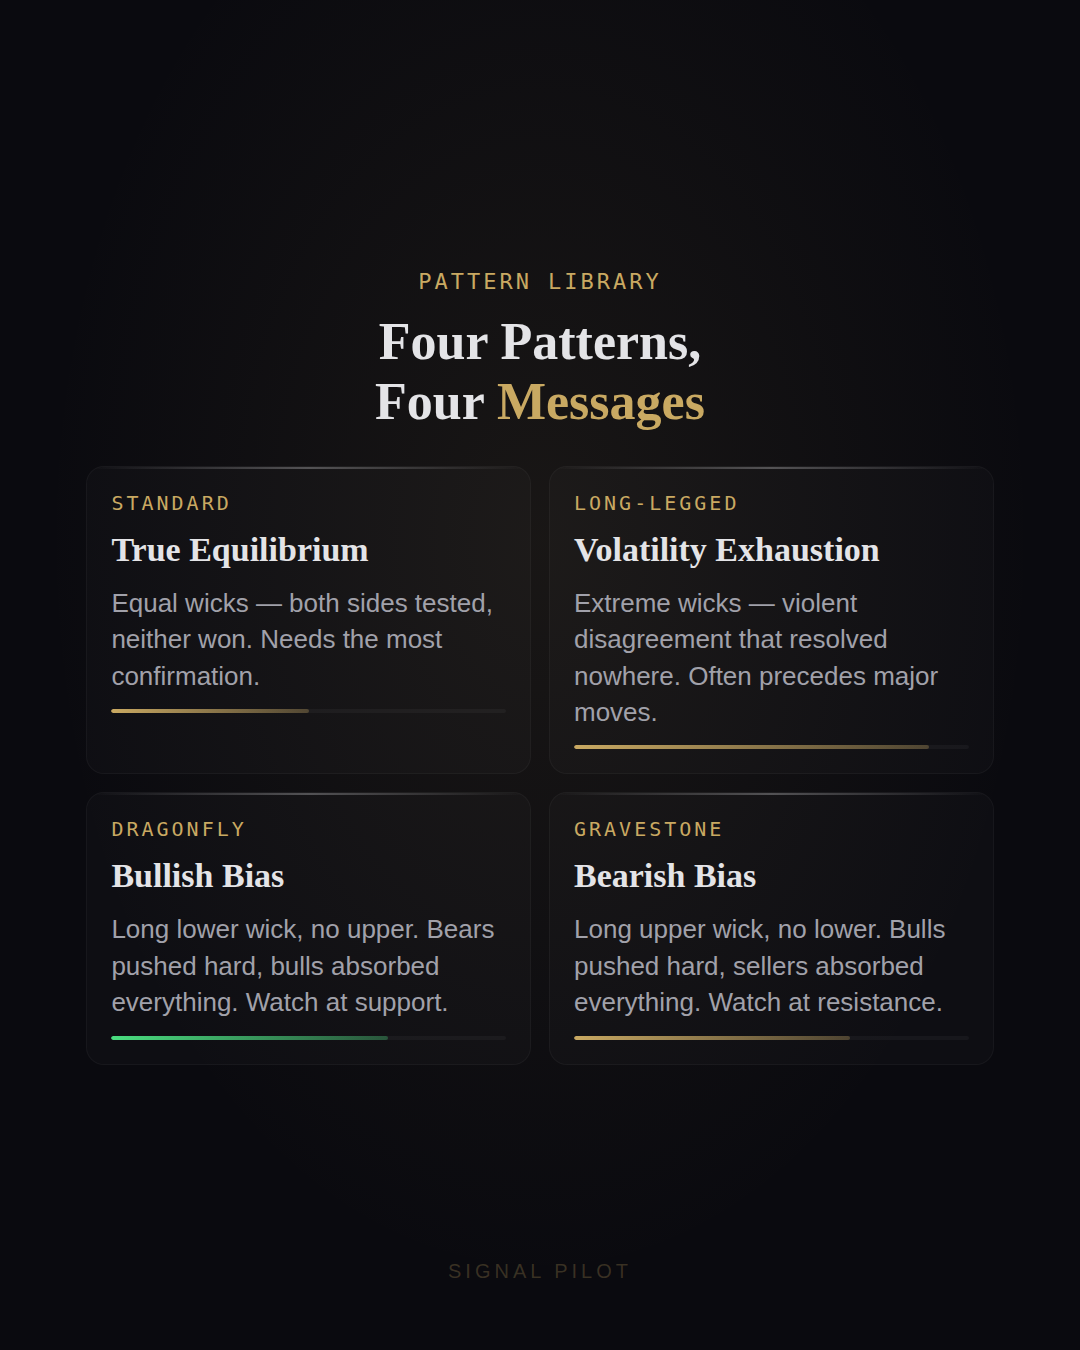
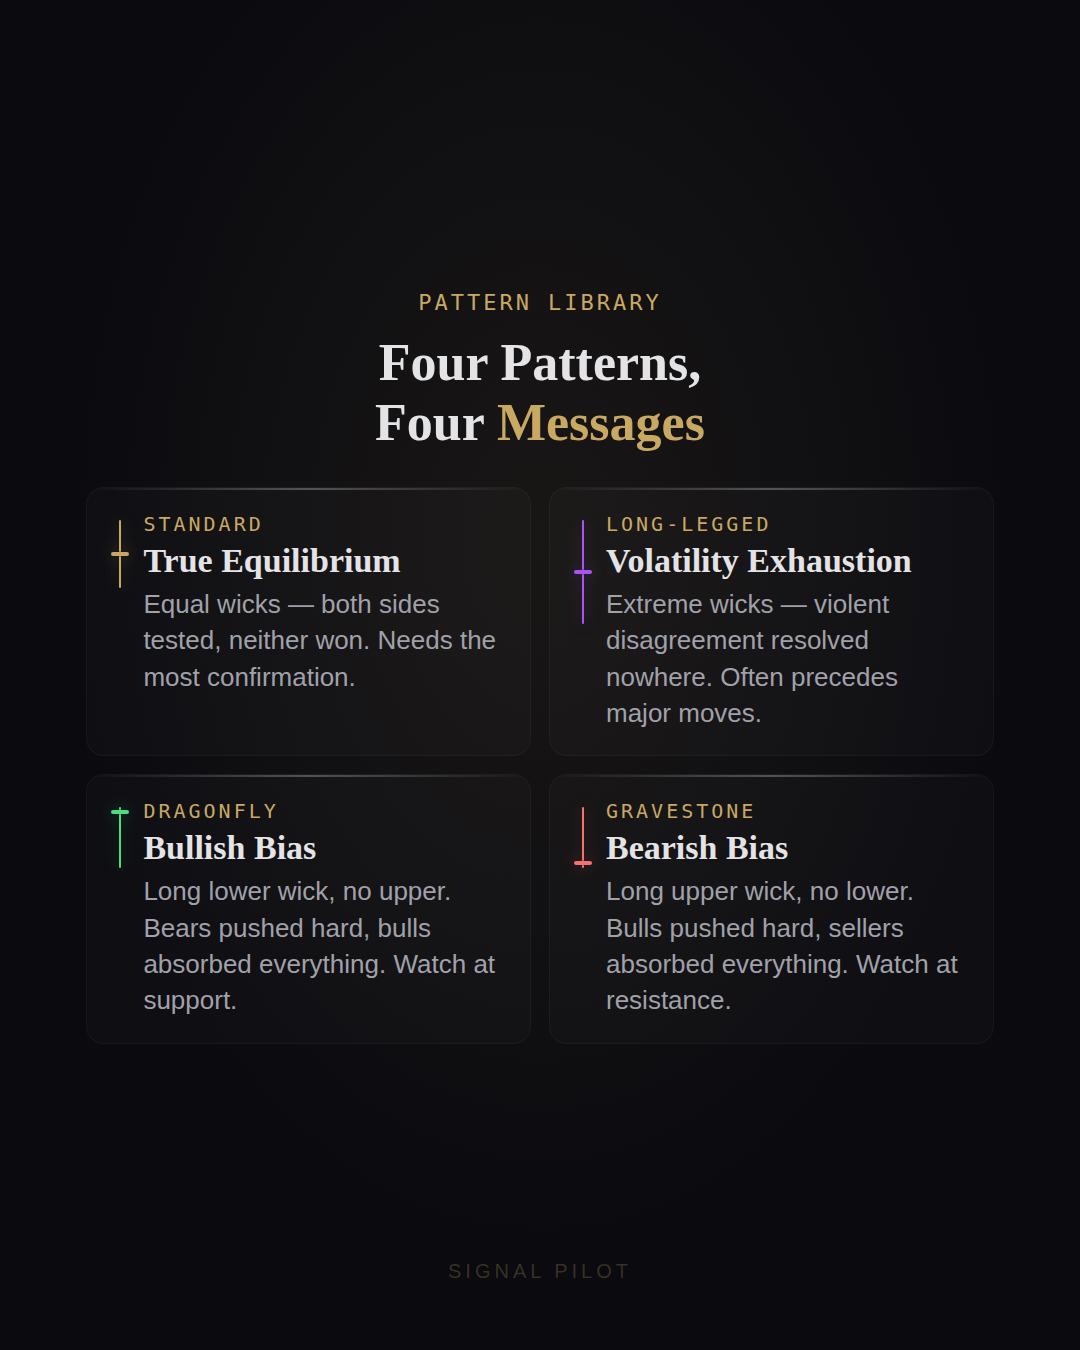
Add actual doji candlestick visuals to post-056
Slide 1: Doji candle inside orb replaces venn diagram — shows what
a doji actually looks like (equal wicks, thin body, gold glow)

Slide 3: Each type card now has a color-coded CSS candlestick:
- Standard: equal gold wicks
- Long-Legged: tall purple wicks
- Dragonfly: long green lower wick, no upper
- Gravestone: long red upper wick, no lower

New CSS candle components: .candle, .candle-mini, .candle-wick,
.candle-body with color variants and glow effects

https://claude.ai/code/session_01JdAyDtW3X2RhJAyPJGnP6R

diff --git a/INSTAGRAM_CONTENT_HUB/social/post-056/carousel.html b/INSTAGRAM_CONTENT_HUB/social/post-056/carousel.html
@@ -48,6 +48,21 @@ body{background:var(--bg);color:var(--txt);font-family:var(--sans);min-height:10
 .vl-left{bottom:-8%;left:-5%;color:var(--red)}
 .vl-right{bottom:-8%;right:-5%;color:var(--gold)}
 
+.candle{display:flex;flex-direction:column;align-items:center;position:relative;z-index:2}
+.candle-wick{width:clamp(2px,0.3cqw,3px);border-radius:2px}
+.candle-body{width:clamp(16px,3.2cqw,30px);border-radius:2px}
+.candle-wick.gold{background:var(--gold)}.candle-body.gold{background:var(--gold)}
+.candle-wick.green{background:var(--green)}.candle-body.green{background:var(--green)}
+.candle-wick.red{background:var(--red)}.candle-body.red{background:var(--red)}
+.candle-wick.purple{background:var(--purple)}.candle-body.purple{background:var(--purple)}
+.candle-glow{filter:drop-shadow(0 0 8px rgba(201,169,98,0.3))}
+.candle-glow-green{filter:drop-shadow(0 0 8px rgba(74,222,128,0.3))}
+.candle-glow-red{filter:drop-shadow(0 0 8px rgba(248,113,113,0.3))}
+.candle-glow-purple{filter:drop-shadow(0 0 8px rgba(168,85,247,0.3))}
+.candle-mini{display:flex;flex-direction:column;align-items:center;flex-shrink:0}
+.candle-mini .candle-wick{width:clamp(1.5px,0.2cqw,2px)}
+.candle-mini .candle-body{width:clamp(10px,2cqw,18px)}
+
 .grid-2x2{width:100%;display:grid;grid-template-columns:1fr 1fr;gap:clamp(10px,2cqw,18px);margin-bottom:clamp(10px,2cqw,16px)}
 .grid-2x3{width:100%;display:grid;grid-template-columns:1fr 1fr;gap:clamp(8px,1.6cqw,16px);margin-bottom:clamp(12px,2.5cqw,20px)}
 .card{padding:clamp(12px,2.4cqw,24px);border-radius:clamp(10px,2cqw,18px);background:var(--surface);border:1px solid rgba(255,255,255,0.04);display:flex;flex-direction:column;gap:clamp(5px,1cqw,10px);text-align:left;position:relative;overflow:hidden}
@@ -178,14 +193,10 @@ body.export-mode .export-nav{display:flex}
 <div class="slide-content" style="justify-content:center;">
 <span class="slide-number">01 / 06</span>
 <div class="orb">
-<div class="venn-container">
-<div class="venn-circle venn-confirm"></div>
-<div class="venn-circle venn-bull"></div>
-<div class="venn-circle venn-bear"></div>
-<div class="venn-center"></div>
-<span class="venn-label vl-top">CONFIRM</span>
-<span class="venn-label vl-left">BULL</span>
-<span class="venn-label vl-right">BEAR</span>
+<div class="candle candle-glow" style="z-index:2">
+<div class="candle-wick gold" style="height:clamp(28px,5.5cqw,50px)"></div>
+<div class="candle-body gold" style="height:clamp(3px,0.5cqw,5px)"></div>
+<div class="candle-wick gold" style="height:clamp(28px,5.5cqw,50px)"></div>
 </div>
 </div>
 <div class="hook-tag">PRICE ACTION</div>
@@ -236,28 +247,60 @@ body.export-mode .export-nav{display:flex}
 <div class="sec-title">Four Patterns,<br>Four <em>Messages</em></div>
 <div class="grid-2x2">
 <div class="card">
+<div style="display:flex;align-items:flex-start;gap:clamp(8px,1.6cqw,14px)">
+<div class="candle-mini candle-glow" style="padding-top:clamp(4px,0.8cqw,8px)">
+<div class="candle-wick gold" style="height:clamp(18px,3.5cqw,32px)"></div>
+<div class="candle-body gold" style="height:clamp(3px,0.4cqw,4px)"></div>
+<div class="candle-wick gold" style="height:clamp(18px,3.5cqw,32px)"></div>
+</div>
+<div style="flex:1">
 <div class="label">STANDARD</div>
 <div class="title">True Equilibrium</div>
 <div class="desc">Equal wicks — both sides tested, neither won. Needs the most confirmation.</div>
-<div class="stat-bar"><div class="stat-fill" style="width:50%"></div></div>
+</div>
+</div>
 </div>
 <div class="card">
+<div style="display:flex;align-items:flex-start;gap:clamp(8px,1.6cqw,14px)">
+<div class="candle-mini candle-glow-purple" style="padding-top:clamp(4px,0.8cqw,8px)">
+<div class="candle-wick purple" style="height:clamp(28px,5.5cqw,50px)"></div>
+<div class="candle-body purple" style="height:clamp(3px,0.4cqw,4px)"></div>
+<div class="candle-wick purple" style="height:clamp(28px,5.5cqw,50px)"></div>
+</div>
+<div style="flex:1">
 <div class="label">LONG-LEGGED</div>
 <div class="title">Volatility Exhaustion</div>
-<div class="desc">Extreme wicks — violent disagreement that resolved nowhere. Often precedes major moves.</div>
-<div class="stat-bar"><div class="stat-fill" style="width:90%"></div></div>
+<div class="desc">Extreme wicks — violent disagreement resolved nowhere. Often precedes major moves.</div>
+</div>
+</div>
 </div>
 <div class="card">
+<div style="display:flex;align-items:flex-start;gap:clamp(8px,1.6cqw,14px)">
+<div class="candle-mini candle-glow-green" style="padding-top:clamp(4px,0.8cqw,8px)">
+<div class="candle-wick green" style="height:clamp(2px,0.3cqw,3px)"></div>
+<div class="candle-body green" style="height:clamp(3px,0.4cqw,4px)"></div>
+<div class="candle-wick green" style="height:clamp(30px,6cqw,54px)"></div>
+</div>
+<div style="flex:1">
 <div class="label">DRAGONFLY</div>
 <div class="title">Bullish Bias</div>
 <div class="desc">Long lower wick, no upper. Bears pushed hard, bulls absorbed everything. Watch at support.</div>
-<div class="stat-bar"><div class="stat-fill green" style="width:70%"></div></div>
+</div>
+</div>
 </div>
 <div class="card">
+<div style="display:flex;align-items:flex-start;gap:clamp(8px,1.6cqw,14px)">
+<div class="candle-mini candle-glow-red" style="padding-top:clamp(4px,0.8cqw,8px)">
+<div class="candle-wick red" style="height:clamp(30px,6cqw,54px)"></div>
+<div class="candle-body red" style="height:clamp(3px,0.4cqw,4px)"></div>
+<div class="candle-wick red" style="height:clamp(2px,0.3cqw,3px)"></div>
+</div>
+<div style="flex:1">
 <div class="label">GRAVESTONE</div>
 <div class="title">Bearish Bias</div>
 <div class="desc">Long upper wick, no lower. Bulls pushed hard, sellers absorbed everything. Watch at resistance.</div>
-<div class="stat-bar"><div class="stat-fill" style="width:70%"></div></div>
+</div>
+</div>
 </div>
 </div>
 <span class="brand-mark">SIGNAL PILOT</span>
